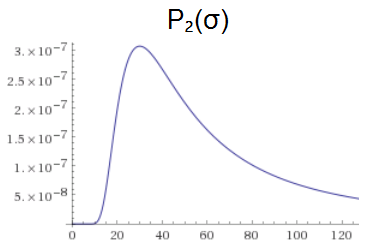
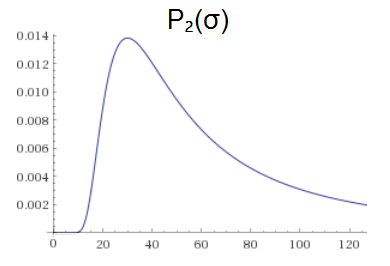
Typo fix, math typo fix

Changed region(s): [[0.0, 0.1111, 0.9864, 0.9722], [0.4185, 0.0278, 0.6277, 0.1389]]

diff --git a/post/1630.html b/post/1630.html
@@ -124,7 +124,7 @@ P_1(\sigma)
 <p>Note that we didn&#39;t normalize.
 That&#39;s because we can&#39;t.
 This is still a malformed distribution.
-The numerator of $P_1$ converges to 1, but then denominator makes the expression act like $1/\sigma$.
+The numerator of $P_1$ converges to 1, but the denominator makes the expression act like $1/\sigma$.
 So the overall the cumulative distribution will diverge like $\Theta(\lg \sigma)$.</p>
 
 <p>Things are still broken after one observation, but they&#39;re not <em>as</em> broken.
@@ -146,12 +146,12 @@ P_2(\sigma)
 
 <p>Now that the denominator is squared, the cumulative distribution converges to a finite number:</p>
 
-<p>$$\int_0^\infty \frac{\exp\left( -30^2/ \sigma^2 \right)}{\sigma^2 \tau} d\sigma = \frac{1}{120 \sqrt{\pi}} \approx 0.0047$$</p>
+<p>$$\int_0^\infty \frac{\exp\left(-30^2/ \sigma^2 \right)}{\sigma^2 \tau} d\sigma = \frac{1}{120 \sqrt{\pi}} \approx 0.0047$$</p>
 
 <p>And we can get a proper posterior <em>probability</em> distribution by using this cumulative total to renormalize:</p>
 
 <p>$$
-P_2(\sigma) =\frac{\exp\left( -30^2/ \sigma^2 \right)}{240 \sigma^2\pi^{3/2}}
+P_2(\sigma) =\frac{60 \exp\left(-30^2/ \sigma^2 \right)}{\sigma^2 \sqrt{\pi}}
 $$</p>
 
 <p><img style="max-width:100%;" src="/assets/2016-12-04-malformed-priors/stdev-posterior-2.png"/></p>
